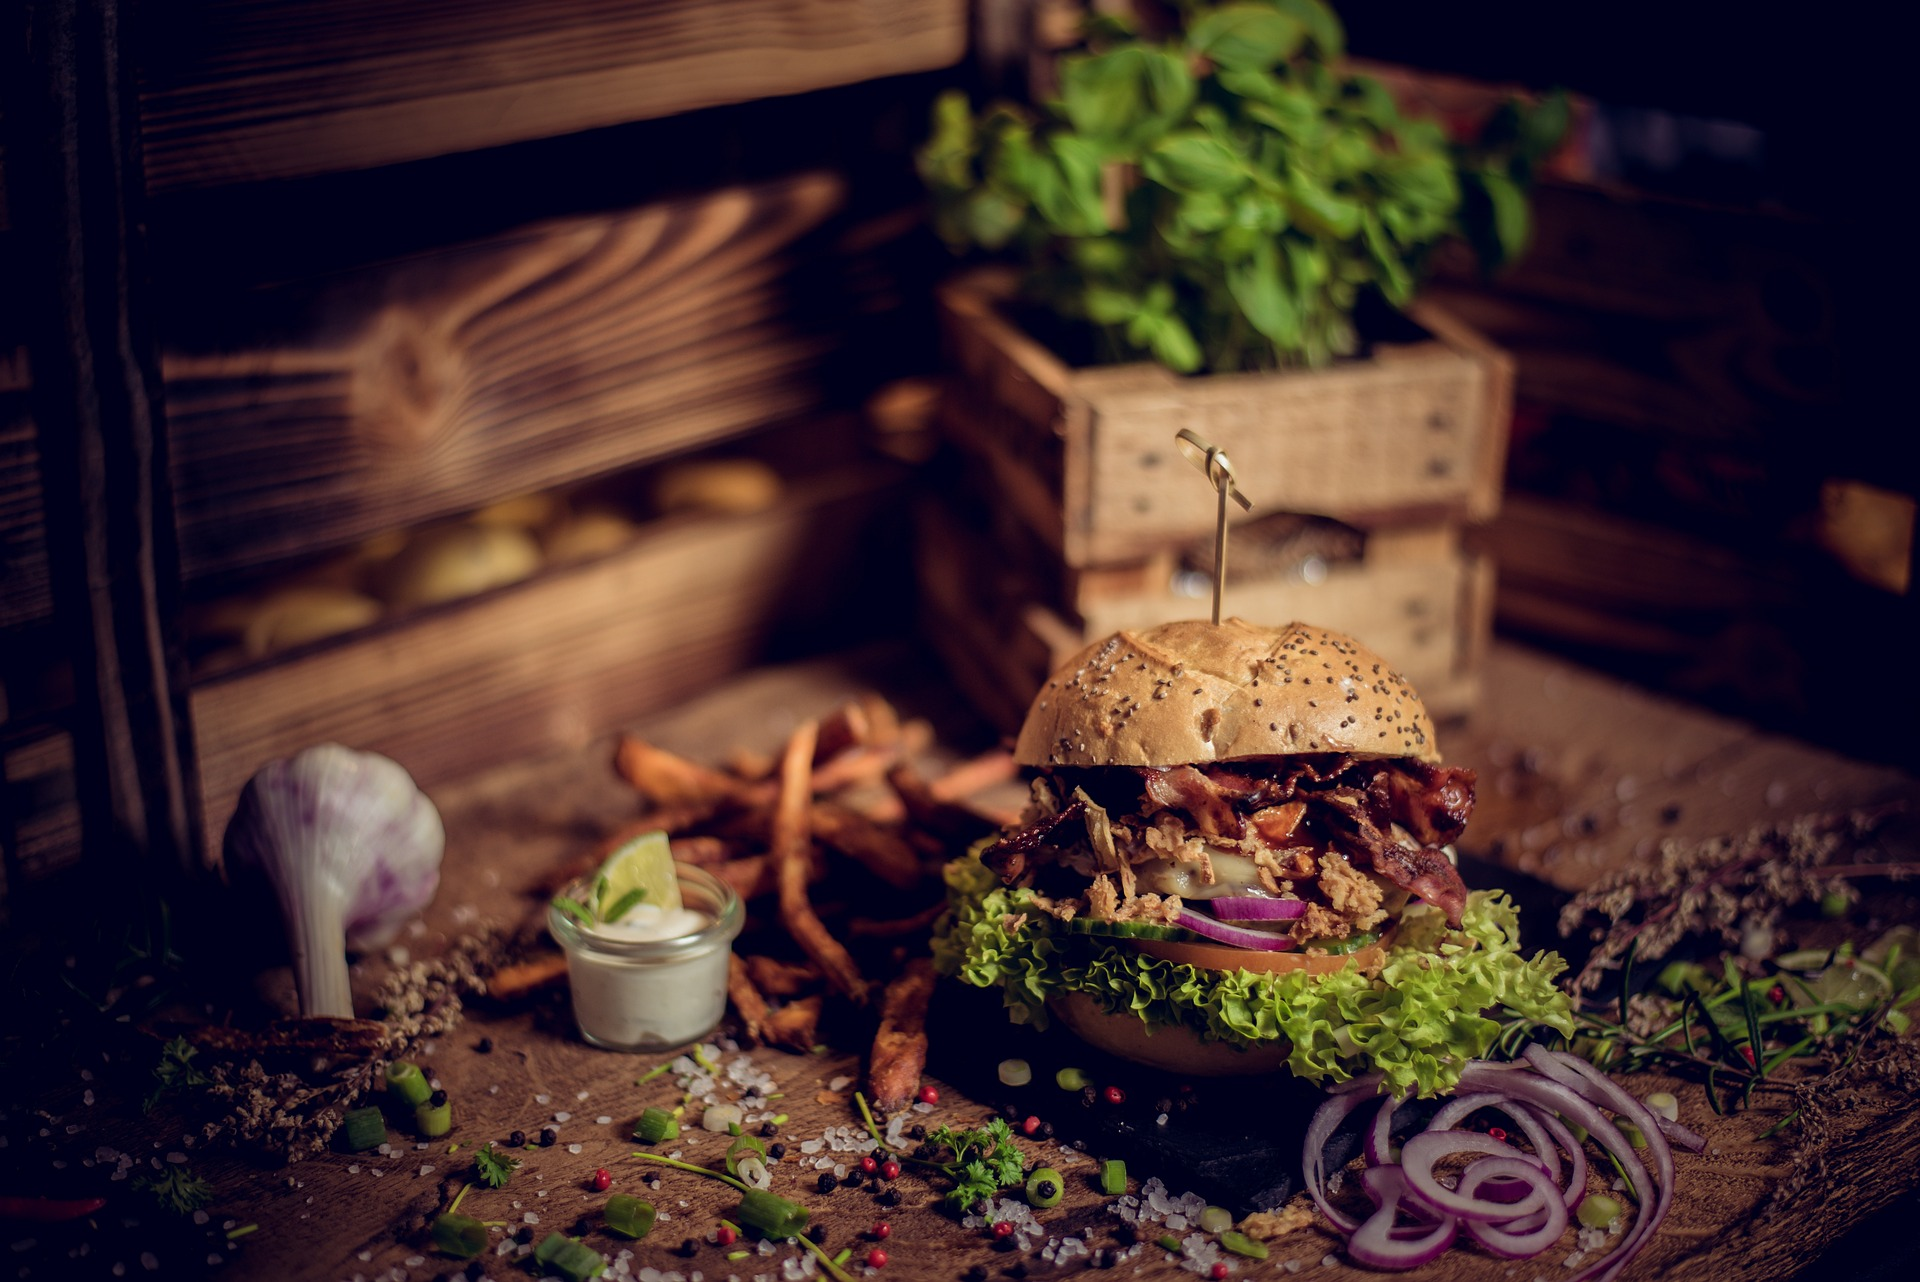
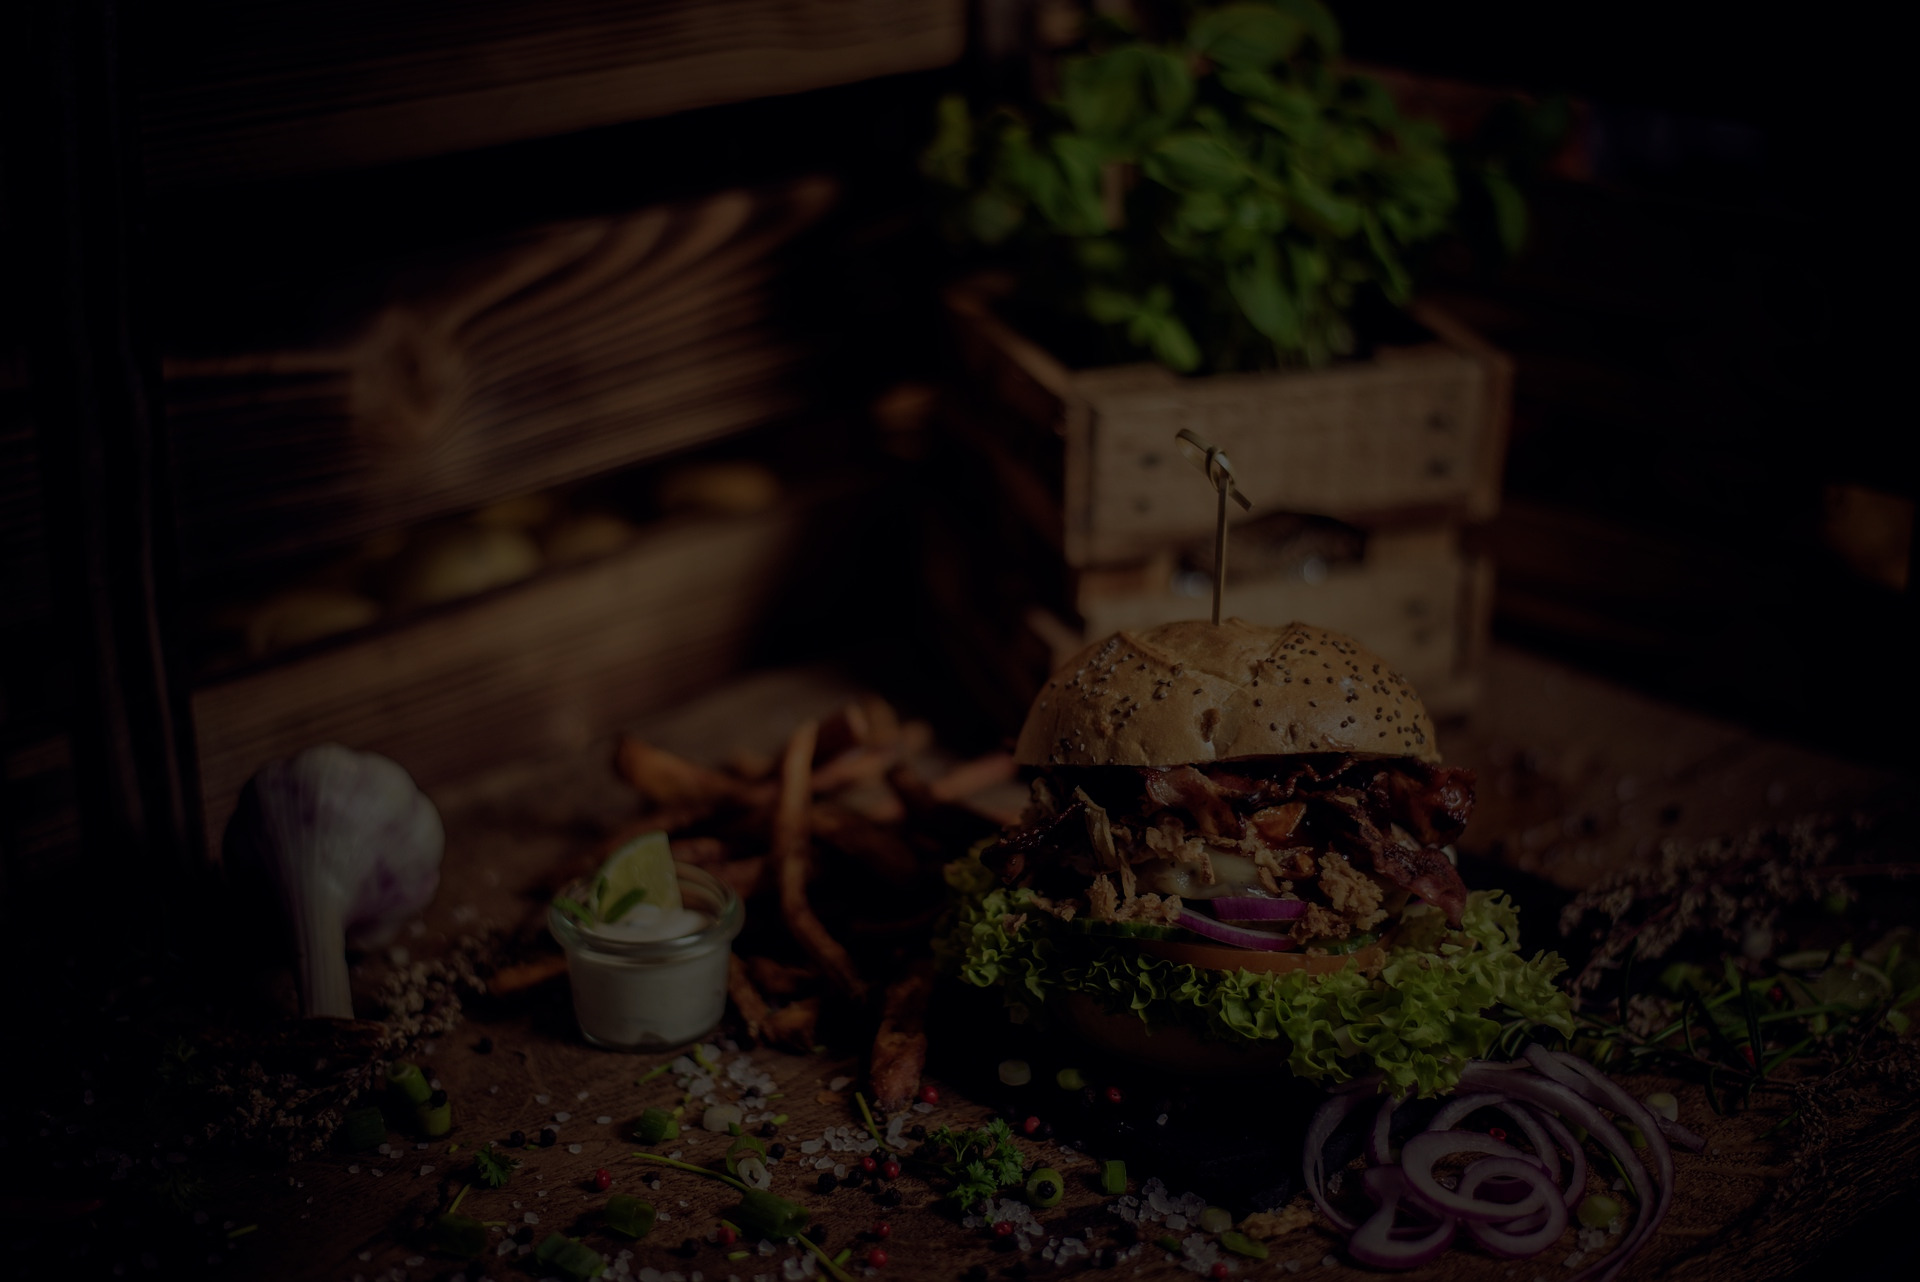
criando paralax do quem somos

diff --git a/digital_burger/assets/css/quemSomos.css b/digital_burger/assets/css/quemSomos.css
@@ -16,7 +16,11 @@ section {
     font-size: 14px;
     color: var(--text-color);
     display: flex;
-    background-color: var(--bg-card);
+    background-image: url("../images/sobre/bgSobre.jpg");
+    background-attachment: fixed;
+    background-position: center;
+    background-repeat: no-repeat;
+    background-size: cover;
 }
 
 .about p {
@@ -46,6 +50,14 @@ section {
     width: 450px;
 }
 
+.cards:nth-child(odd) {
+    background-image: url("../images/sobre/bgSobre.jpg");
+    background-attachment: fixed;
+    background-position: center;
+    background-repeat: no-repeat;
+    background-size: cover;
+}
+
 .cards {
     display: flex;
     justify-content: center;
@@ -64,4 +76,5 @@ section {
 
 .cards img {
     width: 50%;
+    border-radius: 5px;
 }
